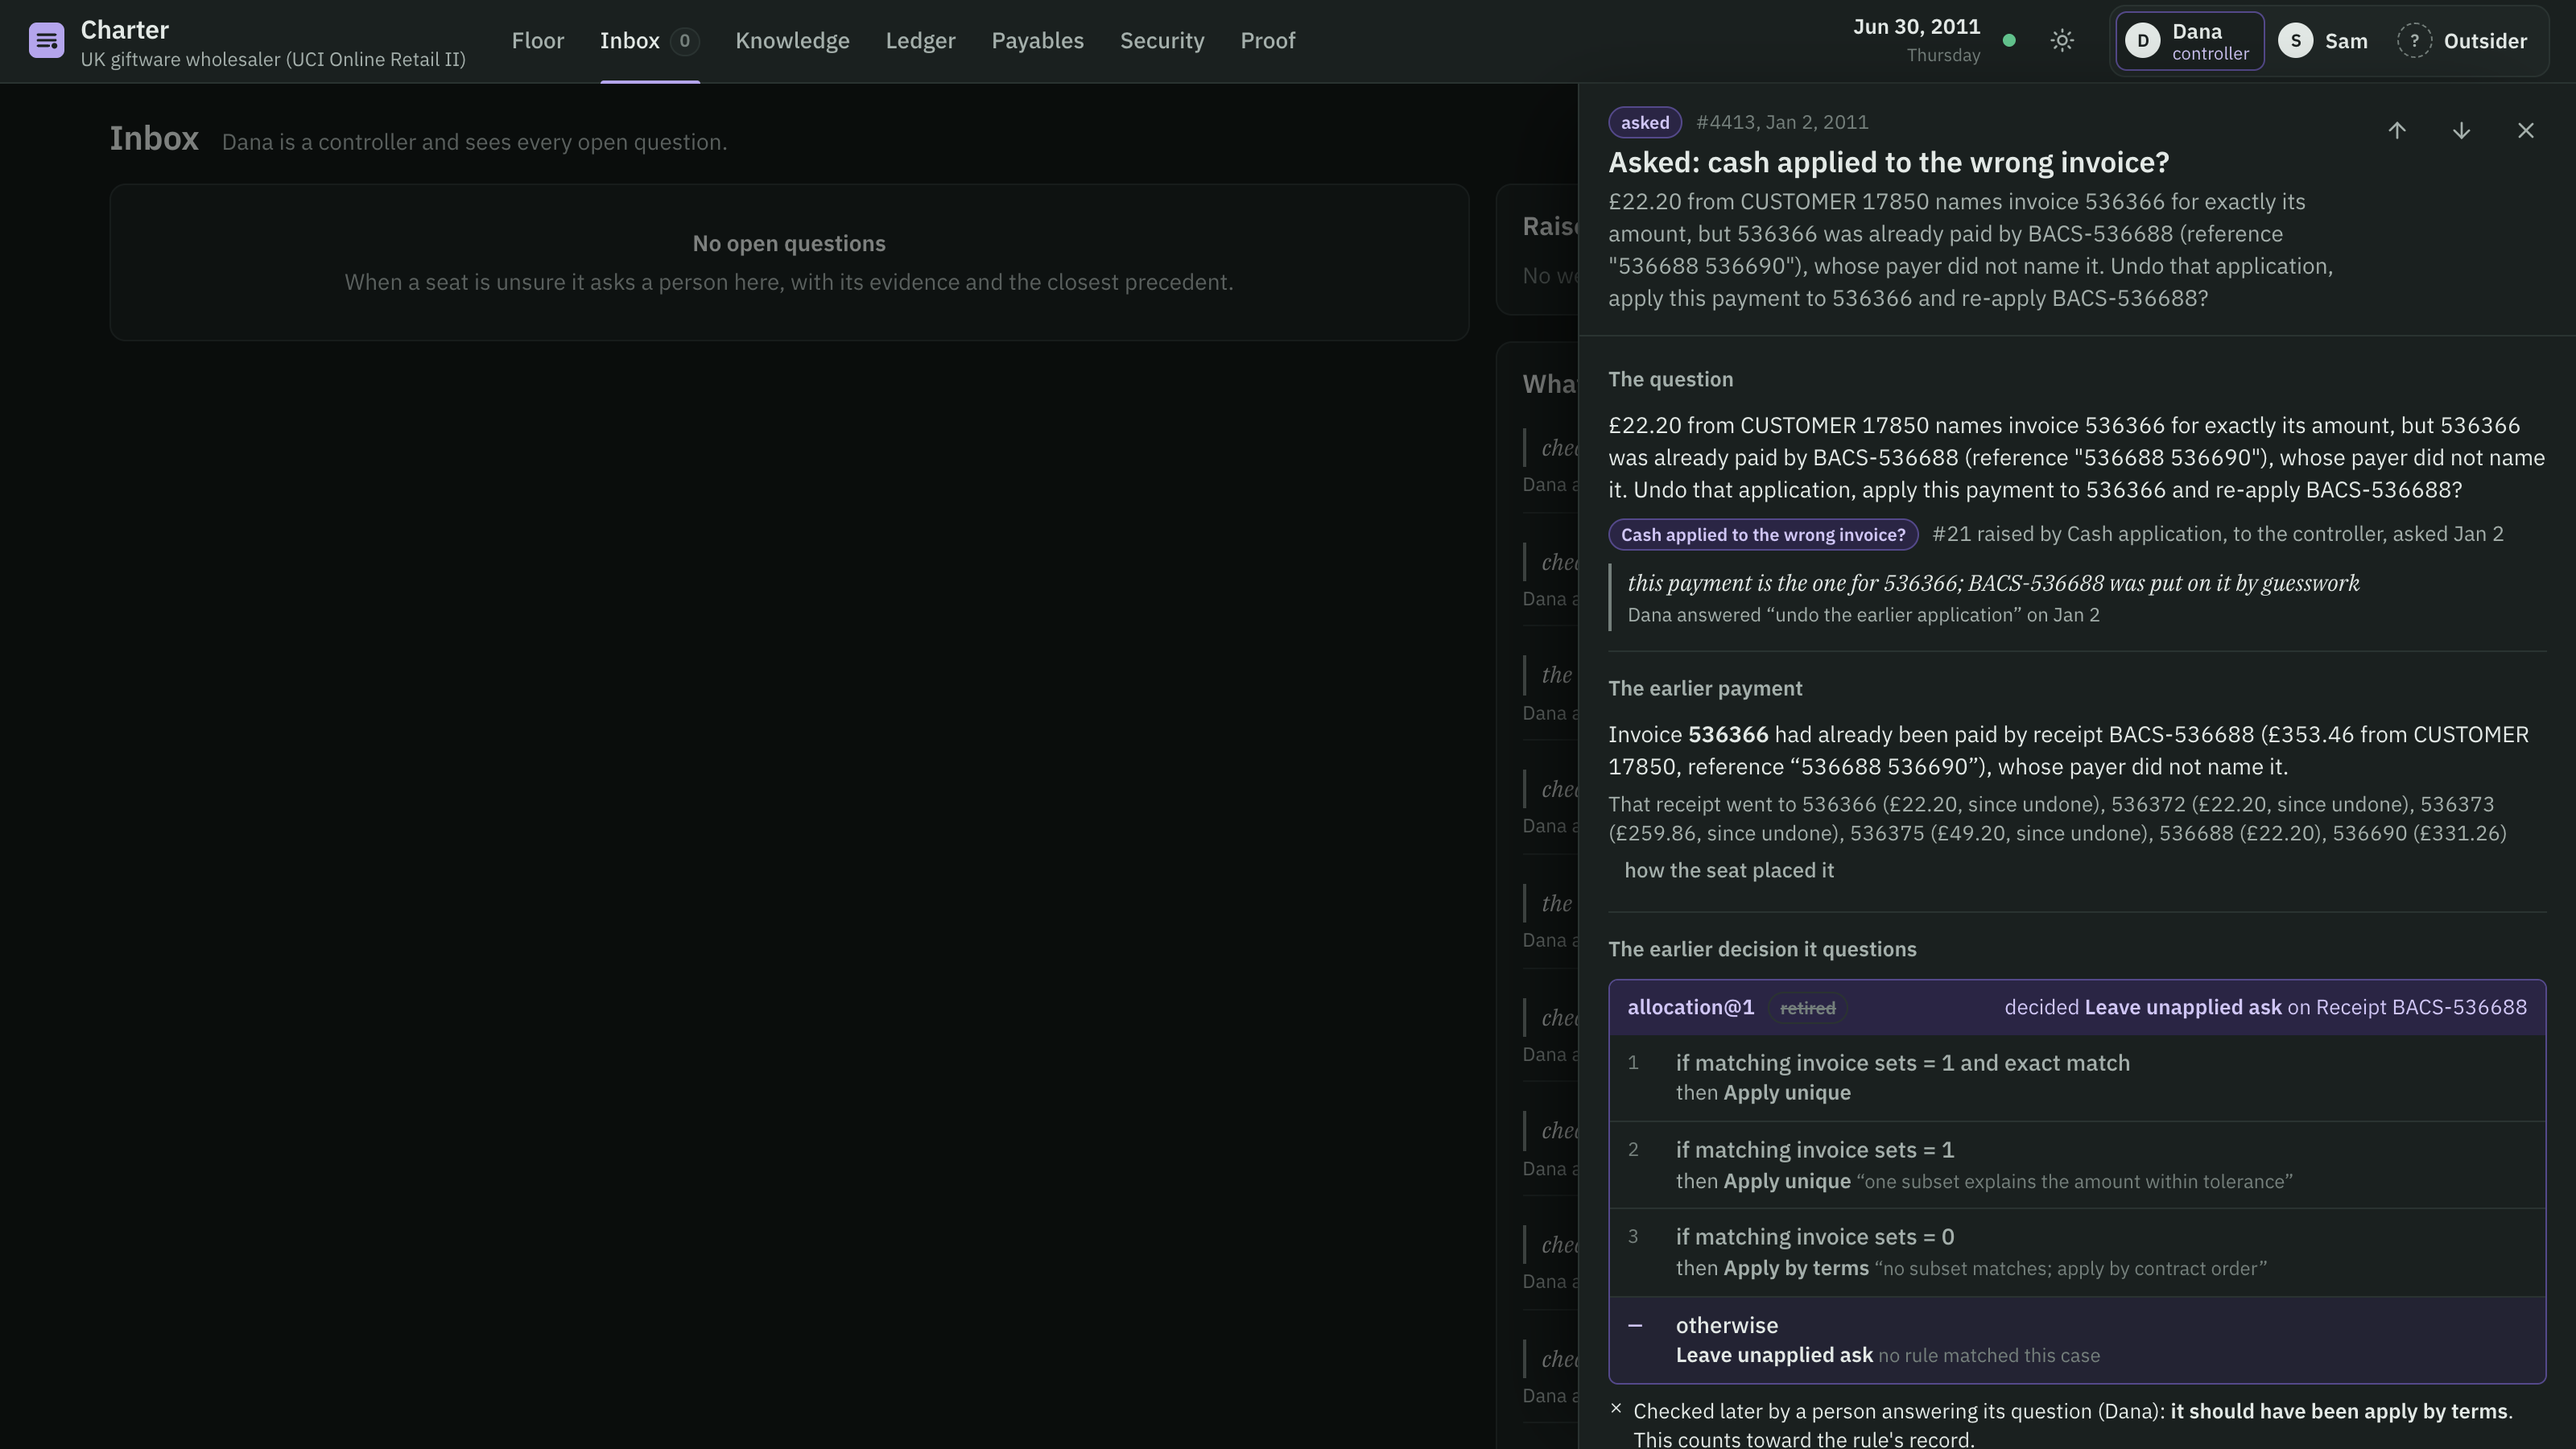
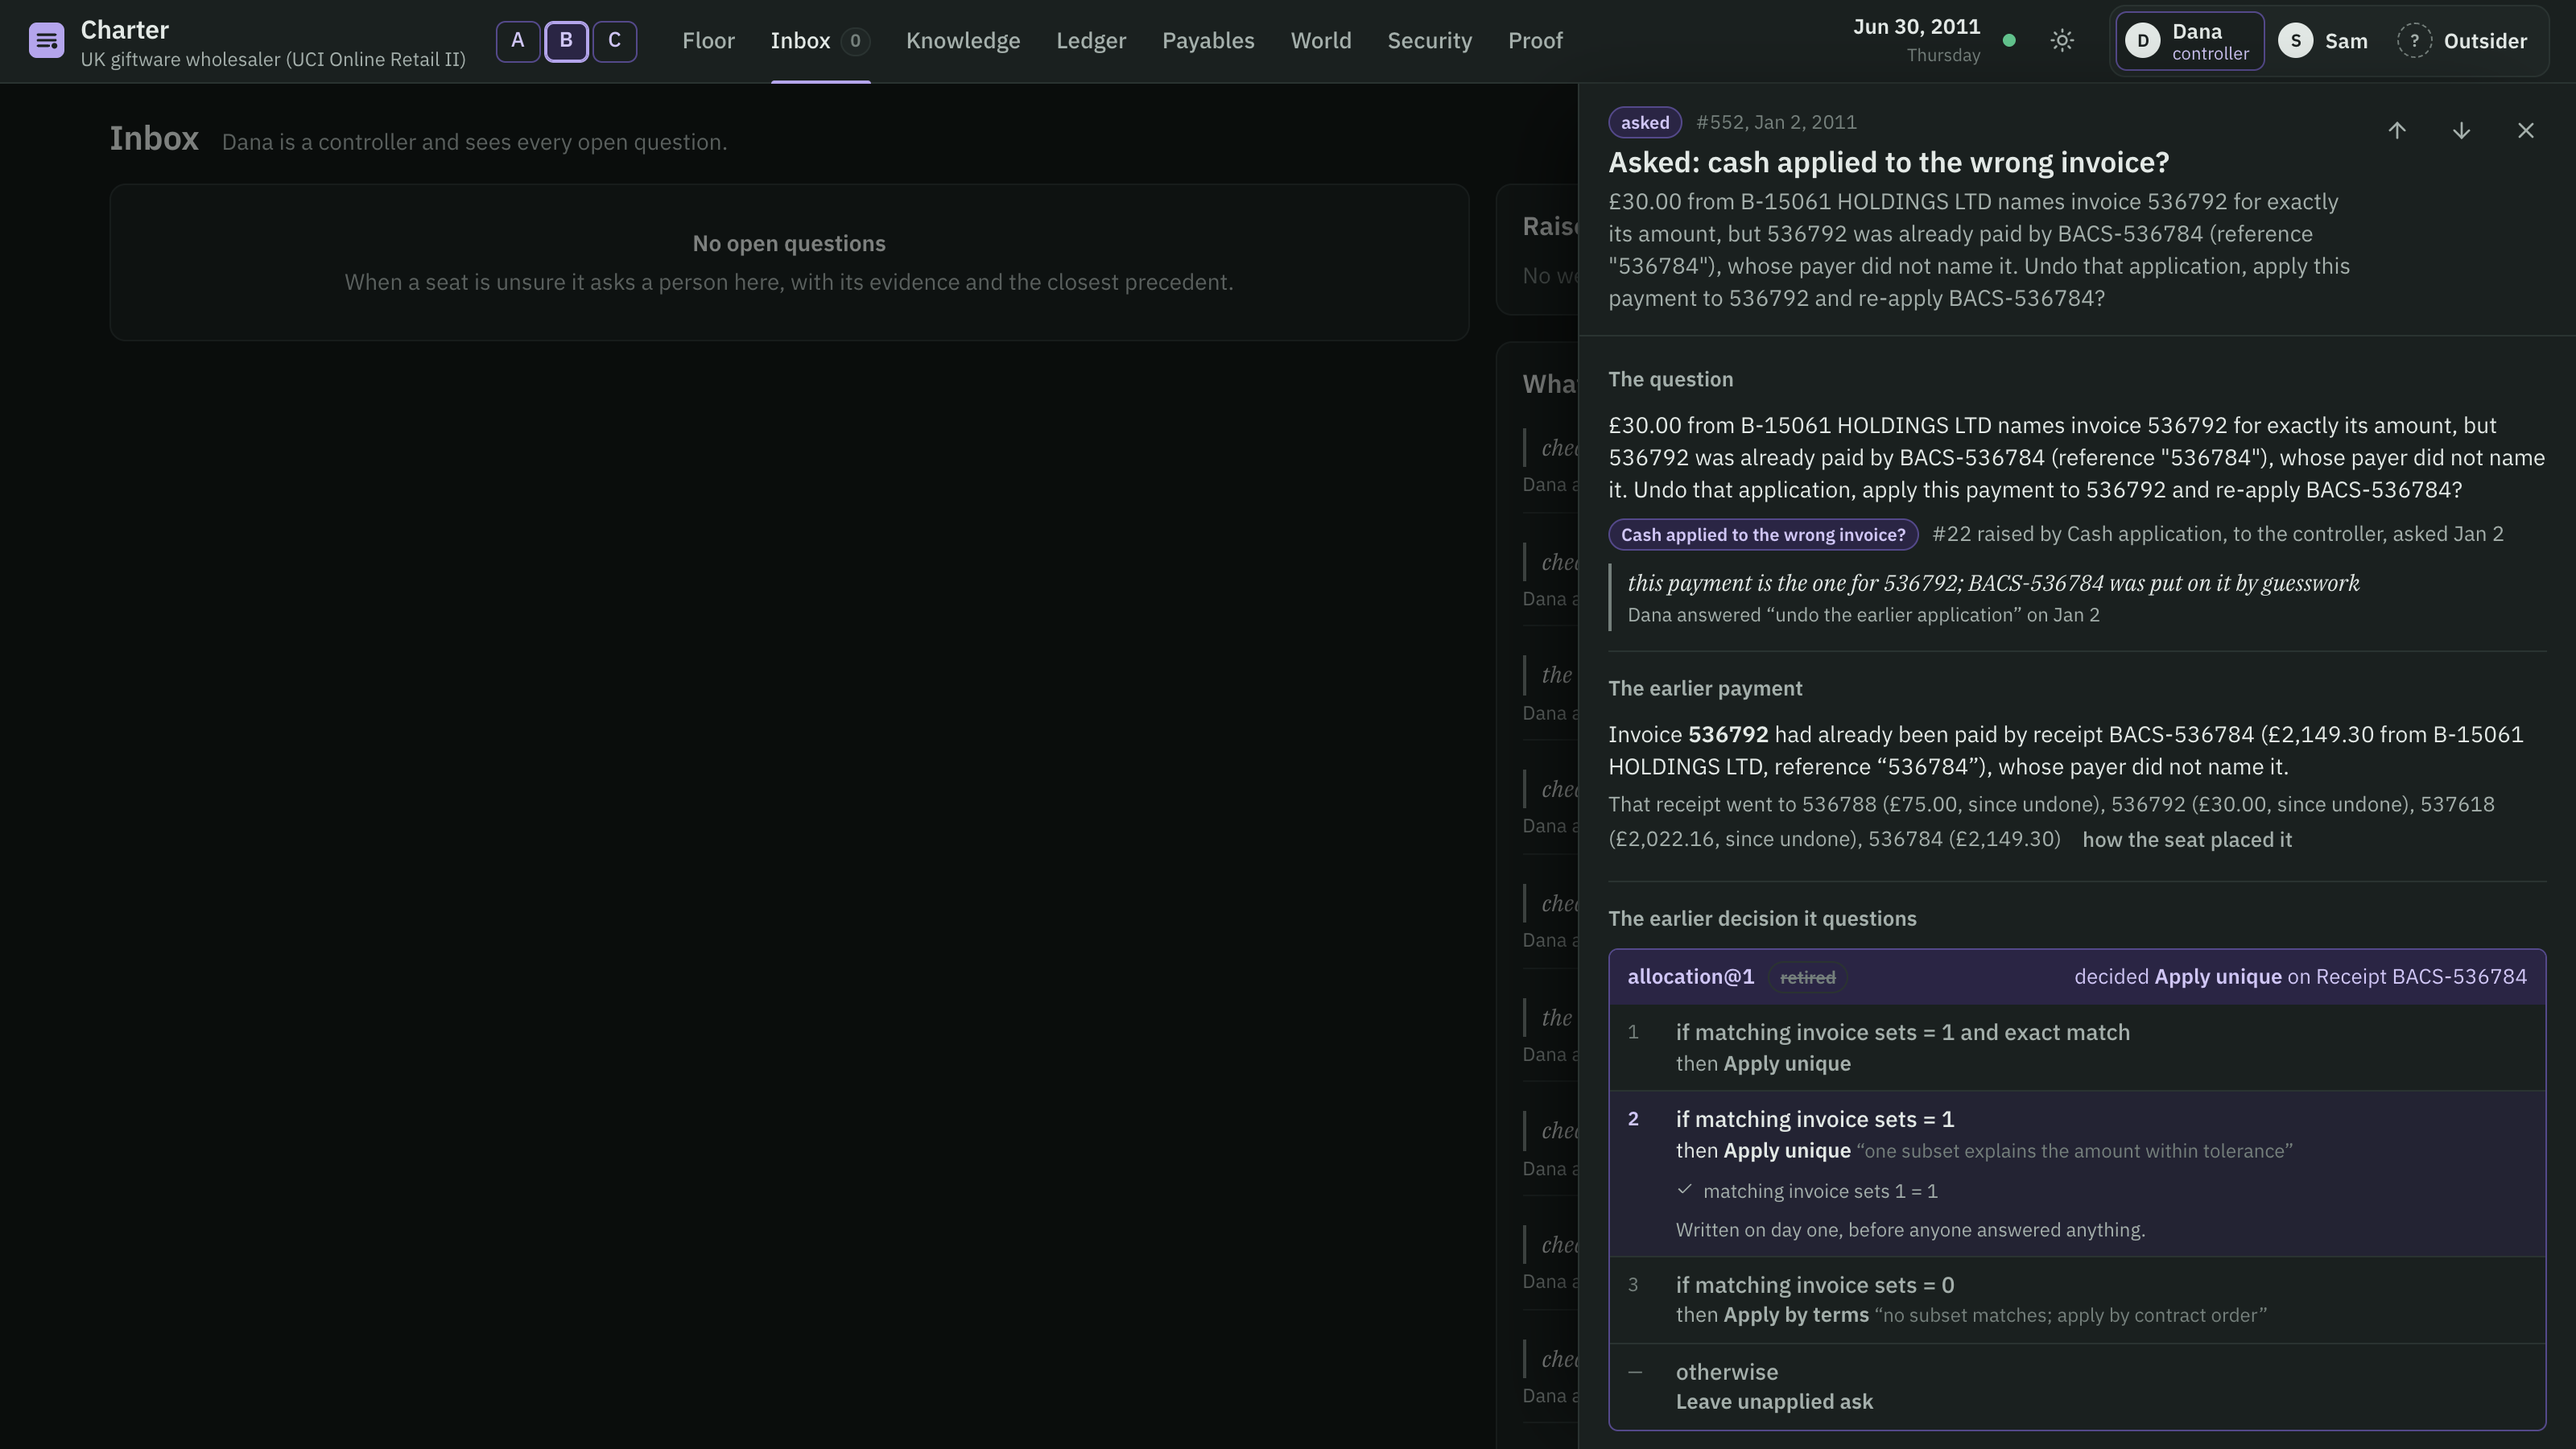
README: three moments a judge can trigger, the third a payment made up on the World screen; screenshots retaken on the demo server from the final runs; the live demo's commands; the video's scenes for the final runs

diff --git a/README.md b/README.md
@@ -12,12 +12,16 @@ Charter does not file the £30 as a duplicate. It works out that 536792 was paid
 
 ![The team finds that an earlier application of its own was a guess and asks the controller](docs/img/b1_question.png)
 
-Two other moments the judges can trigger themselves:
+Three moments the judges can trigger themselves:
 
 - **It pushes back.** Tell it, on a spot check, that it should have chased a franchisee on day 5 of a 10-day grace period. It keeps its decision, says the agreement forbids that, does not count your verdict against the rule, and does not learn from it.
-- **It cannot be talked into moving money.** Email new bank details for Formosa Leaf the day before its $92,400 payment run. Two models read it, the change is held, the controller is asked to call the number already on file, and on Friday the release is refused — for the controller too — by a policy nobody wrote: the team learned it in April from a debit that bounced during an unverified bank change, and extended it from debits to refunds and vendor payments.
+- **It cannot be talked into moving money.** Email new bank details from Formosa Leaf's own address hours before its $92,400 payment run. Two models read it, the change is held, the controller is asked to call the number already on file, and the release is refused — for both controllers — by a policy nobody wrote: the team learned it in April from a debit that bounced during an unverified bank change, and extended it from debits to refunds and vendor payments.
+
+- **Give it your own payment.** On the World screen, make up a payment — any payer, any invoices, any reference, from any account — and it arrives through the bank feed like everything else. A transfer from abroad paying two invoices, £12 short for the banks' charges, is applied alone to exactly the two invoices the customer named, by a rule the team learned from the controller's answers in January; the £12 waits for Monday's write-off list. A bill made up the same way goes to the payables clerk.
 
 ![Friday's release is refused for both controllers by a policy learned in April](docs/img/a2_refused.png)
+
+![A payment made up on the spot: two invoices from abroad, £12 short, applied to exactly the invoices the customer named by a rule learned in January](docs/img/b8_world.png)
 
 ## Would you hire it?
 
@@ -152,6 +156,9 @@ npx tsx tools/benchrec/benchrec.ts --data <folder with the BenchRec CSVs>
 npx tsx tools/evolve/gate_check.ts                 # the gate's regression checks, offline
 cd tools && python3 smoke.py && python3 smoke_ap.py
 cd web && npm install && npm run dev
+tools/demo/demo.sh clone && tools/demo/demo.sh build   # the live demo's own server (main server stopped first), prepared and snapshotted
+tools/demo/demo.sh up                              # demo server :3100, the UI with its step bar on :5191
+tools/demo/demo.sh reset                           # back to the snapshot between judges, about a second
 ```
 
 Model calls use Alibaba Model Studio (OpenAI-compatible); put `MODELSTUDIO_API_KEY` in `~/.config/charter/modelstudio.env`. The evolver's model calls are cached in `data/evolve_llm_cache.json`, so evolution replays offline.
